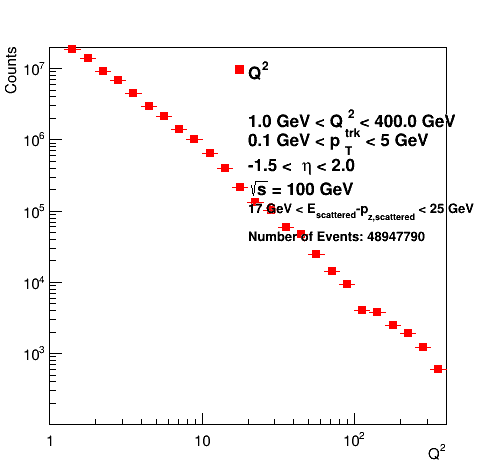
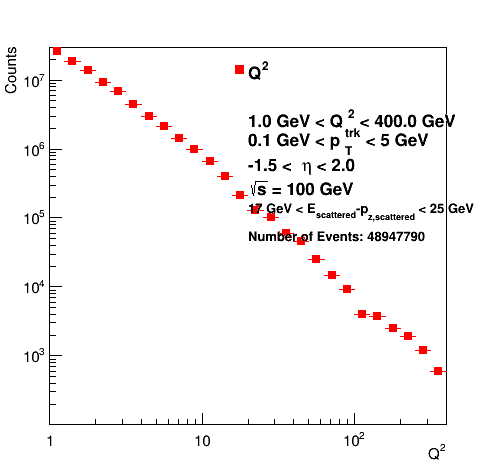
commit

diff --git a/draw.cpp b/draw.cpp
@@ -23,13 +23,13 @@ void draw(std::string jobname = "ep_HERA4", bool batchmode = true, int batches =
     TCanvas *c0 = new TCanvas("c0", "c0", 500, 500);
 gStyle->SetOptStat(0);
     TPad *p0 = (TPad *)c0->cd();
-    TH1F *h0 = (TH1F *)p0->DrawFrame(q2_min, 1, q2_max_edge, 2e7);
+    TH1F *h0 = (TH1F *)p0->DrawFrame(q2_min, 1, q2_max_edge, 3e7);
     h0->Draw();
     c0->cd();
     h0->GetXaxis()->SetTitle("Q^{2}");
     h0->GetYaxis()->SetTitle("Counts");
     h0->GetXaxis()->SetRangeUser(q2_min, q2_max_edge);
-    h0->GetYaxis()->SetRangeUser(1e2, 2e7);
+    h0->GetYaxis()->SetRangeUser(1e2, 3e7);
     c0->SetLogy();
     c0->SetLogx();
 
@@ -49,7 +49,7 @@ gStyle->SetOptStat(0);
         ly1->SetLineColor(kRed);
         if (a1->GetXaxis()->GetBinLowEdge(i) > q2_min && a1->GetXaxis()->GetBinLowEdge(i + 1) < q2_max_edge && y1 > 1e2)
             lx1->Draw("SAME");
-        if (x1 > q2_min && x1 < q2_max_edge && y1 - a1->GetBinErrorLow(i) > 1e2 && y1 + a1->GetBinErrorUp(i) < 1e7)
+        if (x1 > q2_min && x1 < q2_max_edge && y1 - a1->GetBinErrorLow(i) > 1e2 && y1 + a1->GetBinErrorUp(i) < 3e7)
             ly1->Draw("SAME");
     }
     myMarkerText(0.5, 0.85, kRed, 21, "Q^{2}", 1.2, 0.04);
